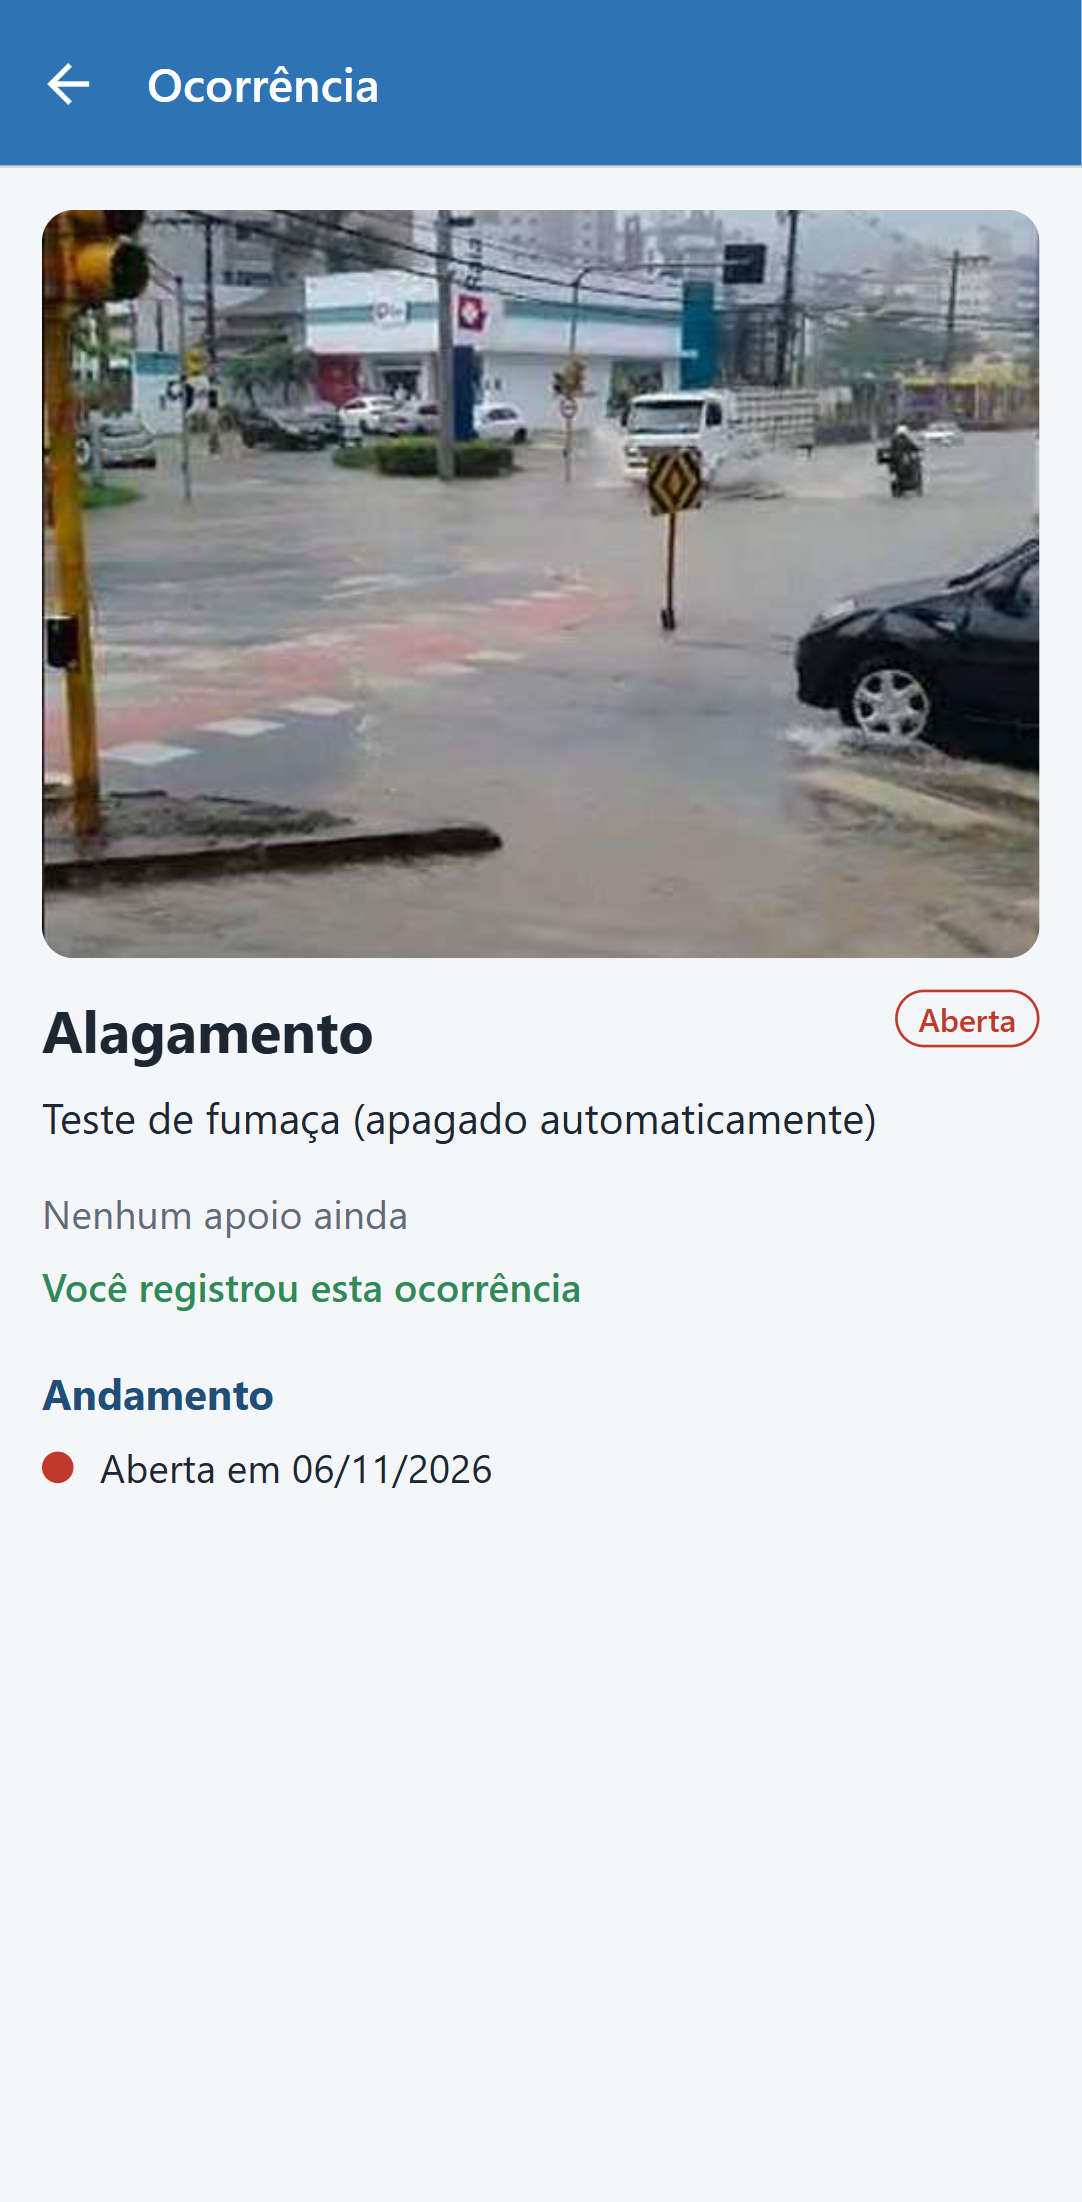
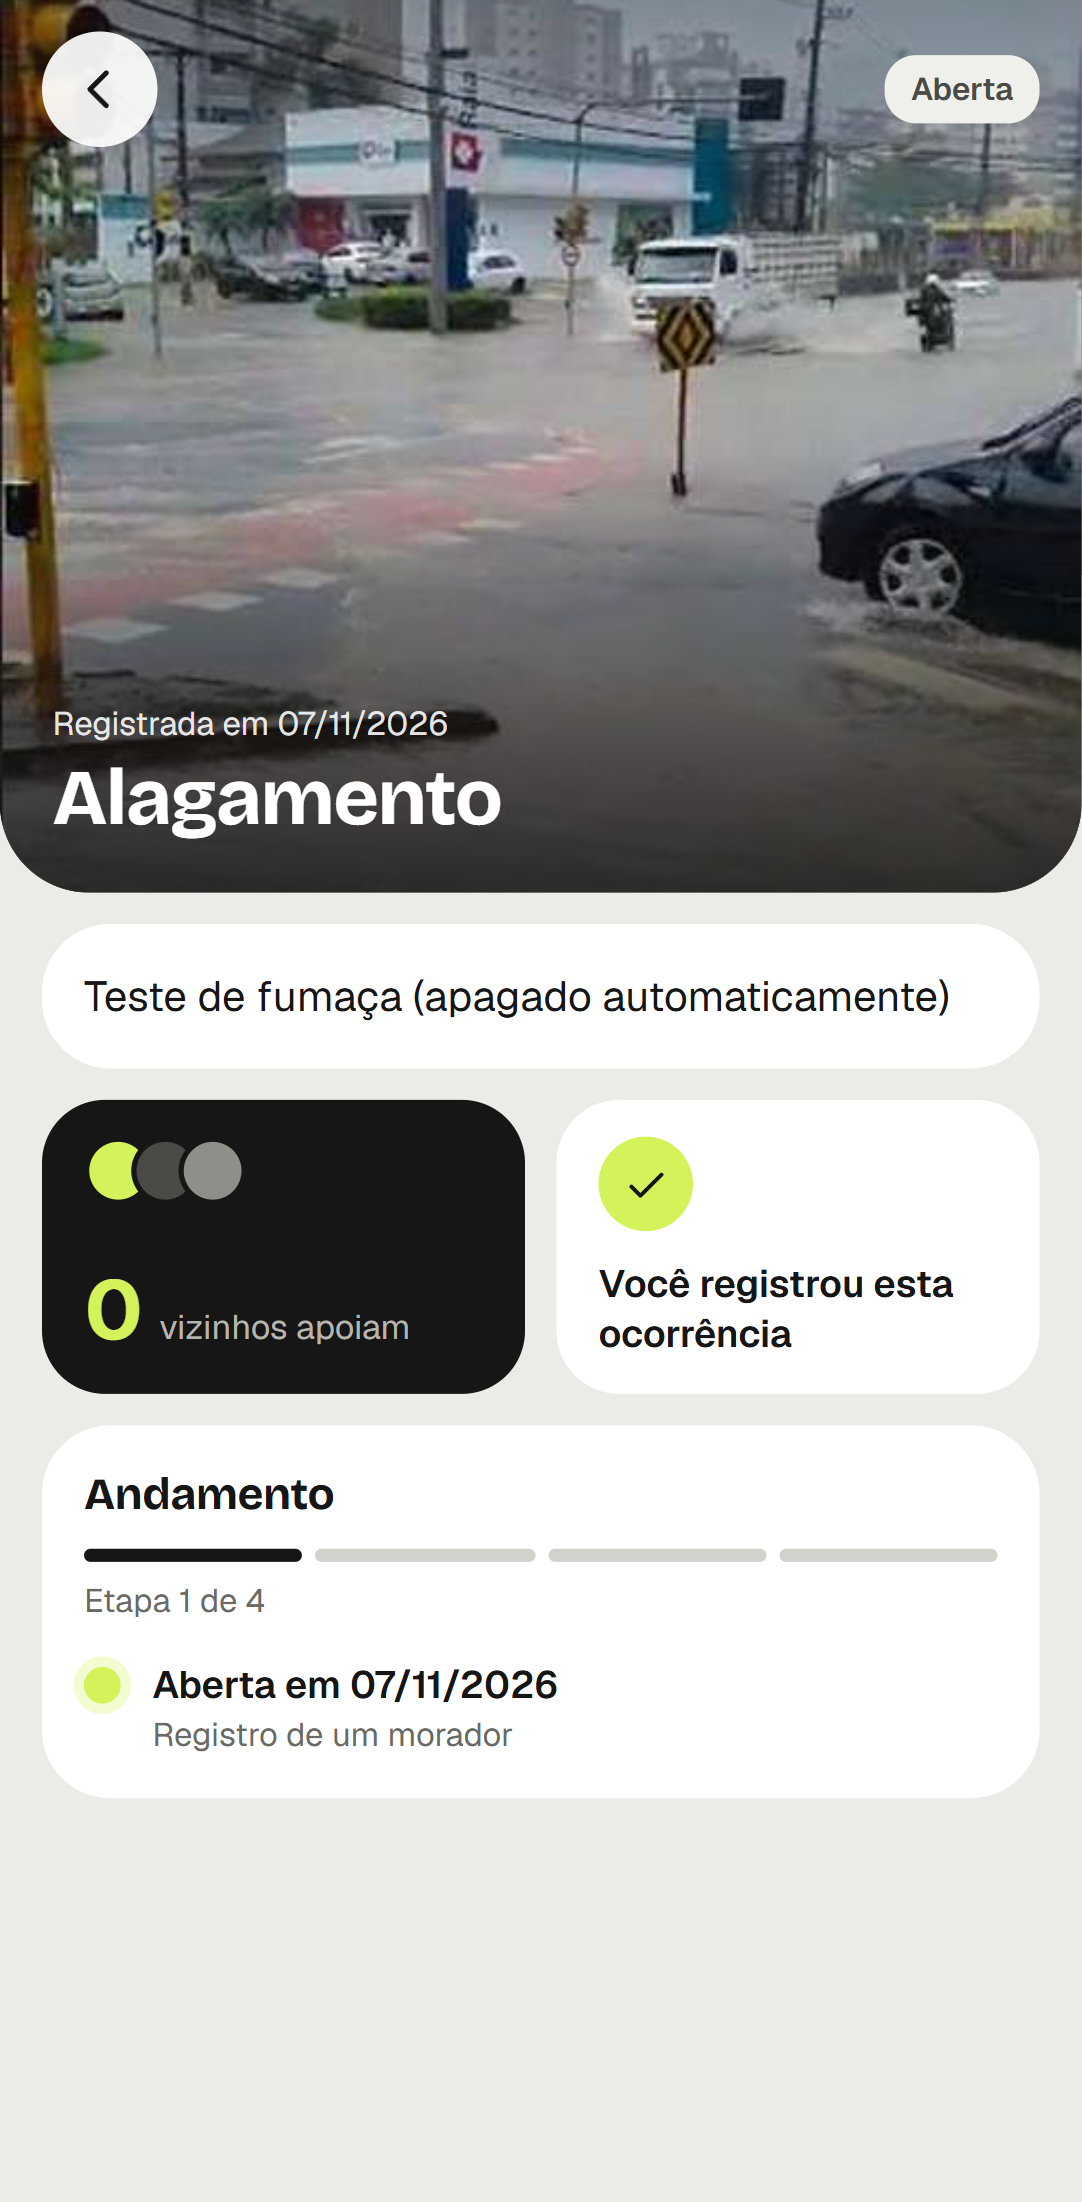
docs: guia do piloto com os primeiros registros e captura de produção atualizada
- A equipe registra problemas reais antes de convidar os moradores.
- Casos noticiados pela imprensa ficam fora das métricas; o script de importação fica fora do git (fotos de terceiros).
- Captura 08 refeita pelo teste de fumaça com a nova identidade visual.

diff --git a/docs/guia-piloto.md b/docs/guia-piloto.md
@@ -26,6 +26,12 @@ O relatório final vence em **30/11/2026**. Para sobrar tempo de analisar os dad
 5. Cadastrar os moderadores: depois que a pessoa da associação criar a conta no app, copiar o UID dela em
    Authentication e criar no Firestore o documento `moderadores/<UID>` com o campo `nome`.
 6. Fazer um teste completo com dois celulares antes de convidar os moradores.
+7. Antes do convite, cada integrante da equipe registra no app 3 ou 4 problemas reais do bairro, com foto no local,
+   e apoia ("Eu também vi") os registros dos colegas que também viu. Assim o primeiro morador já encontra um mapa
+   com atividade real. No relatório, informe que os primeiros registros foram feitos pela equipe.
+8. Já foram registrados 7 problemas do bairro noticiados pela imprensa (ND Mais e O Blumenauense), com a foto, a data
+   e a fonte da notícia, pelo script local `noticias/importar.mjs` (fora do git, porque as fotos são de terceiros).
+   Eles não entram nas métricas do piloto; `node noticias/importar.mjs apagar` remove todos.
 
 ## 3. Como os moradores instalam
 
